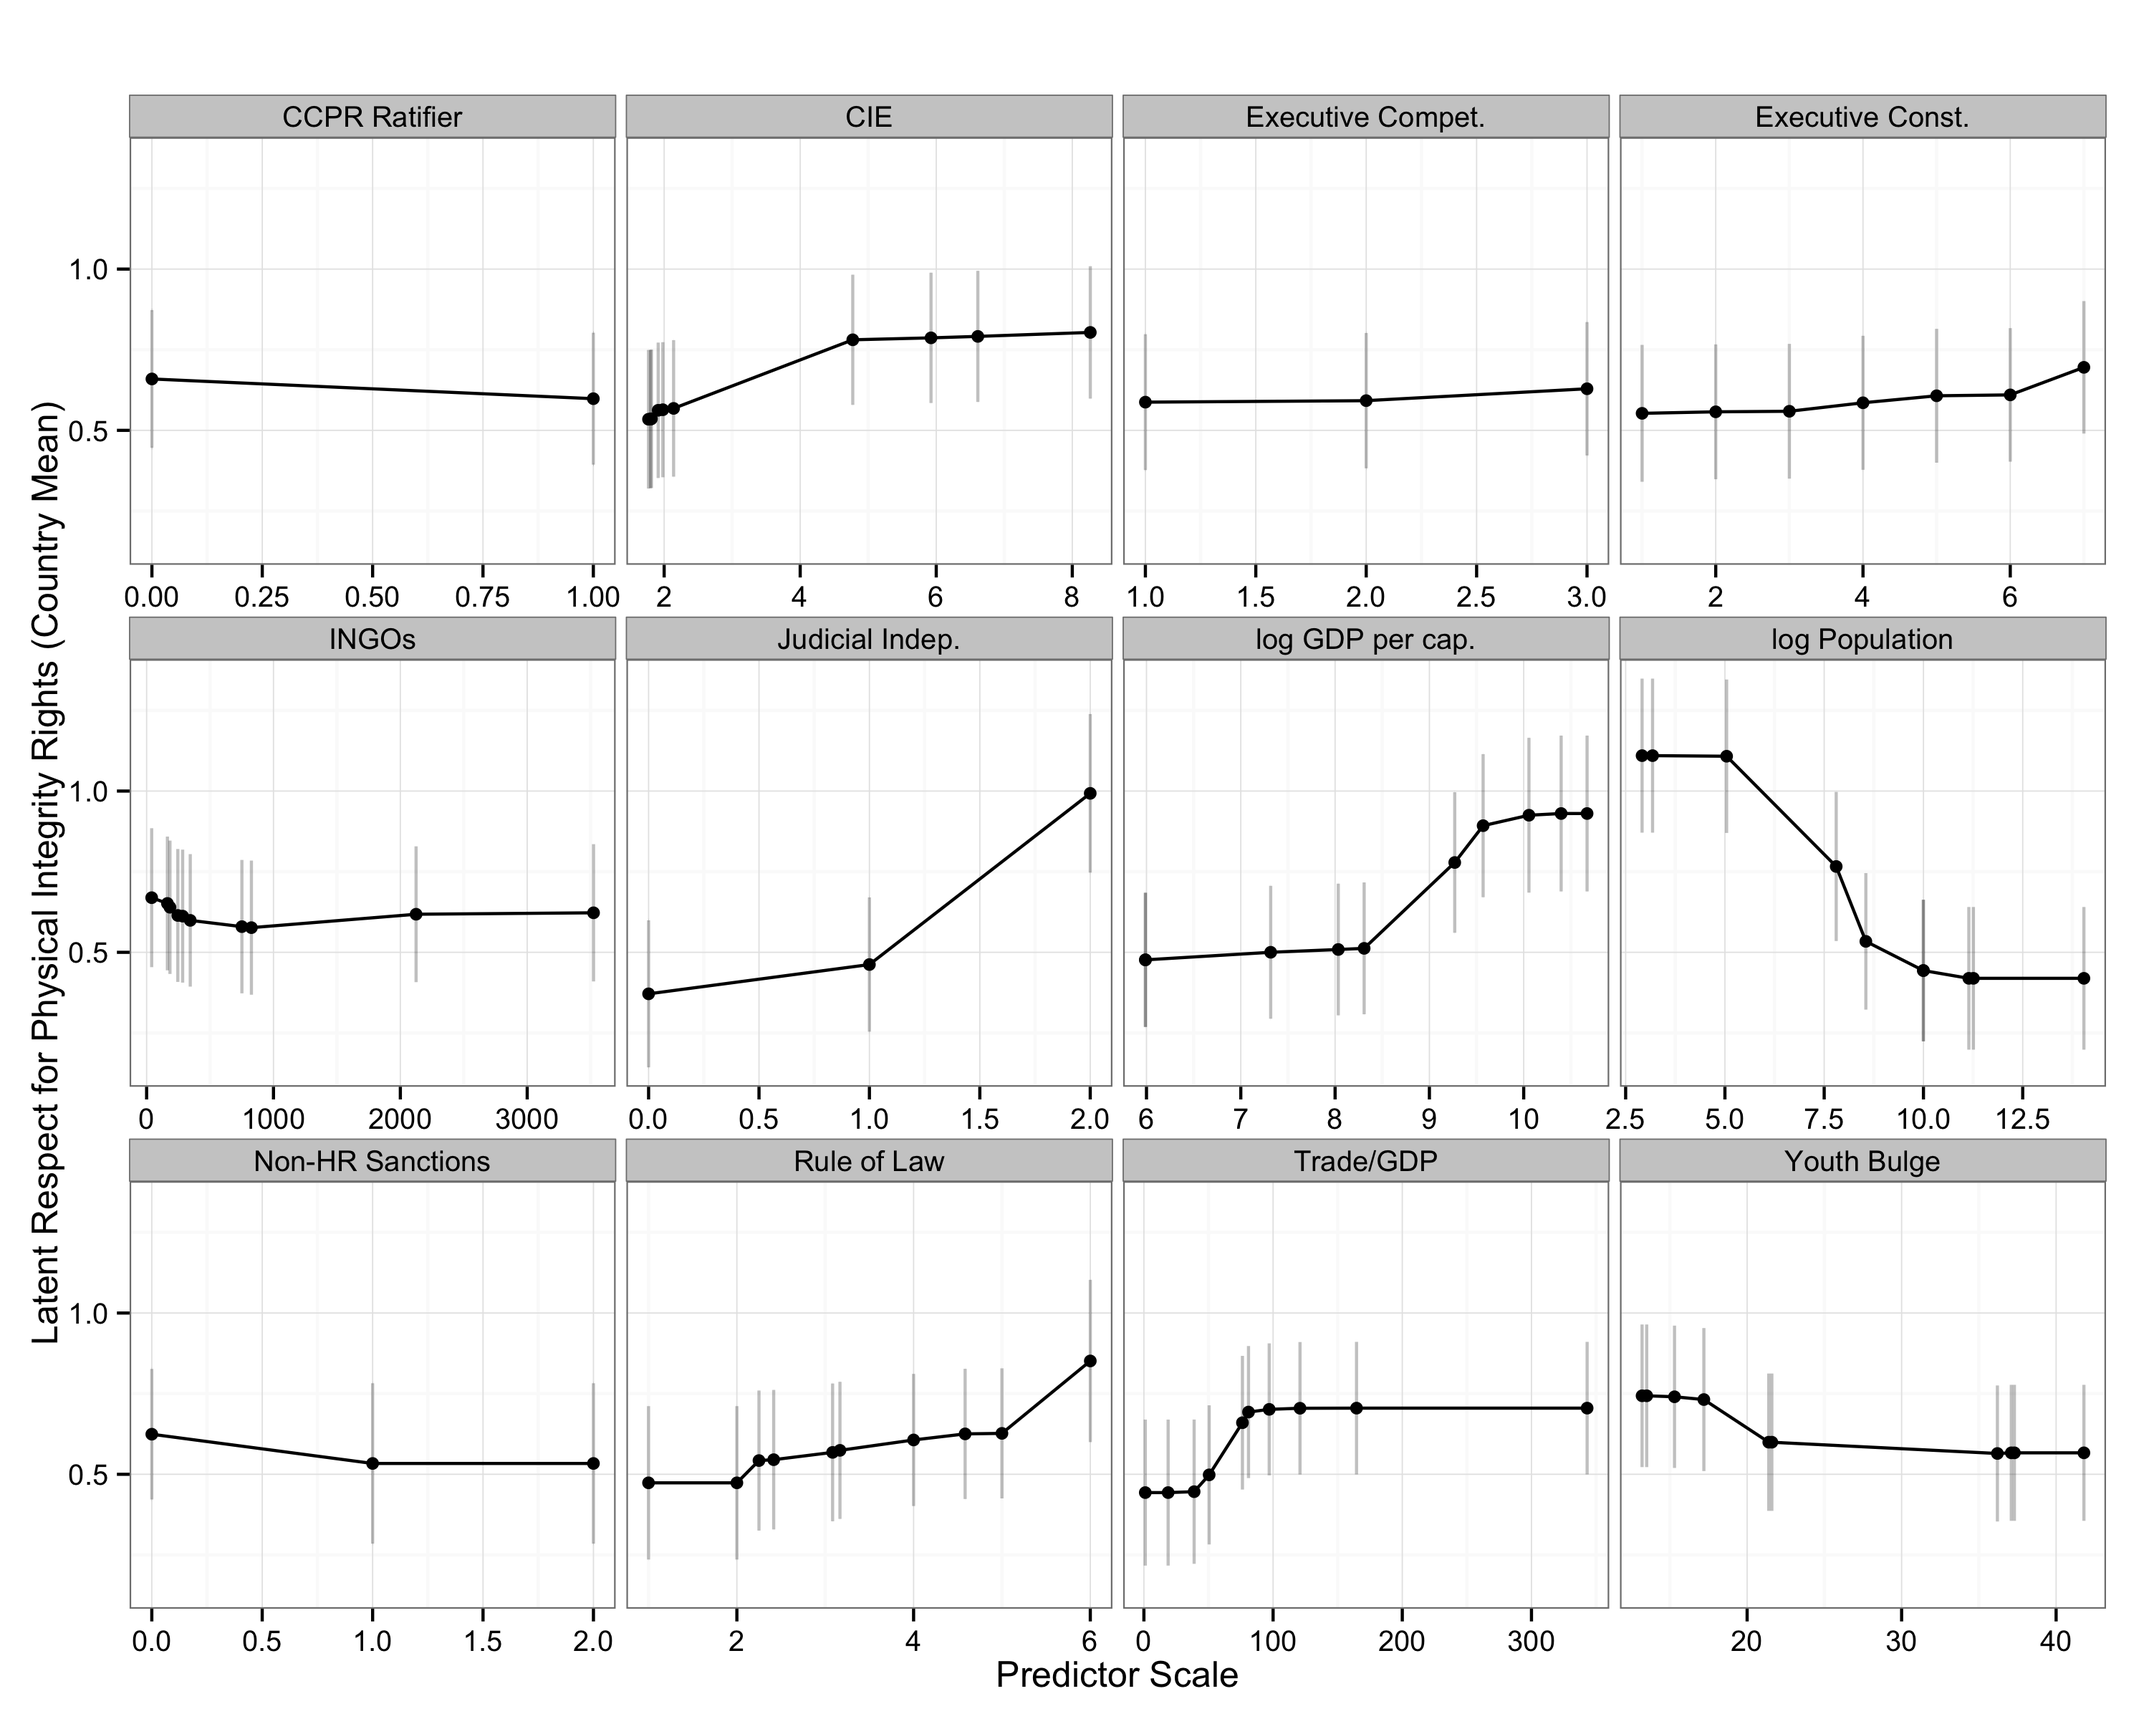
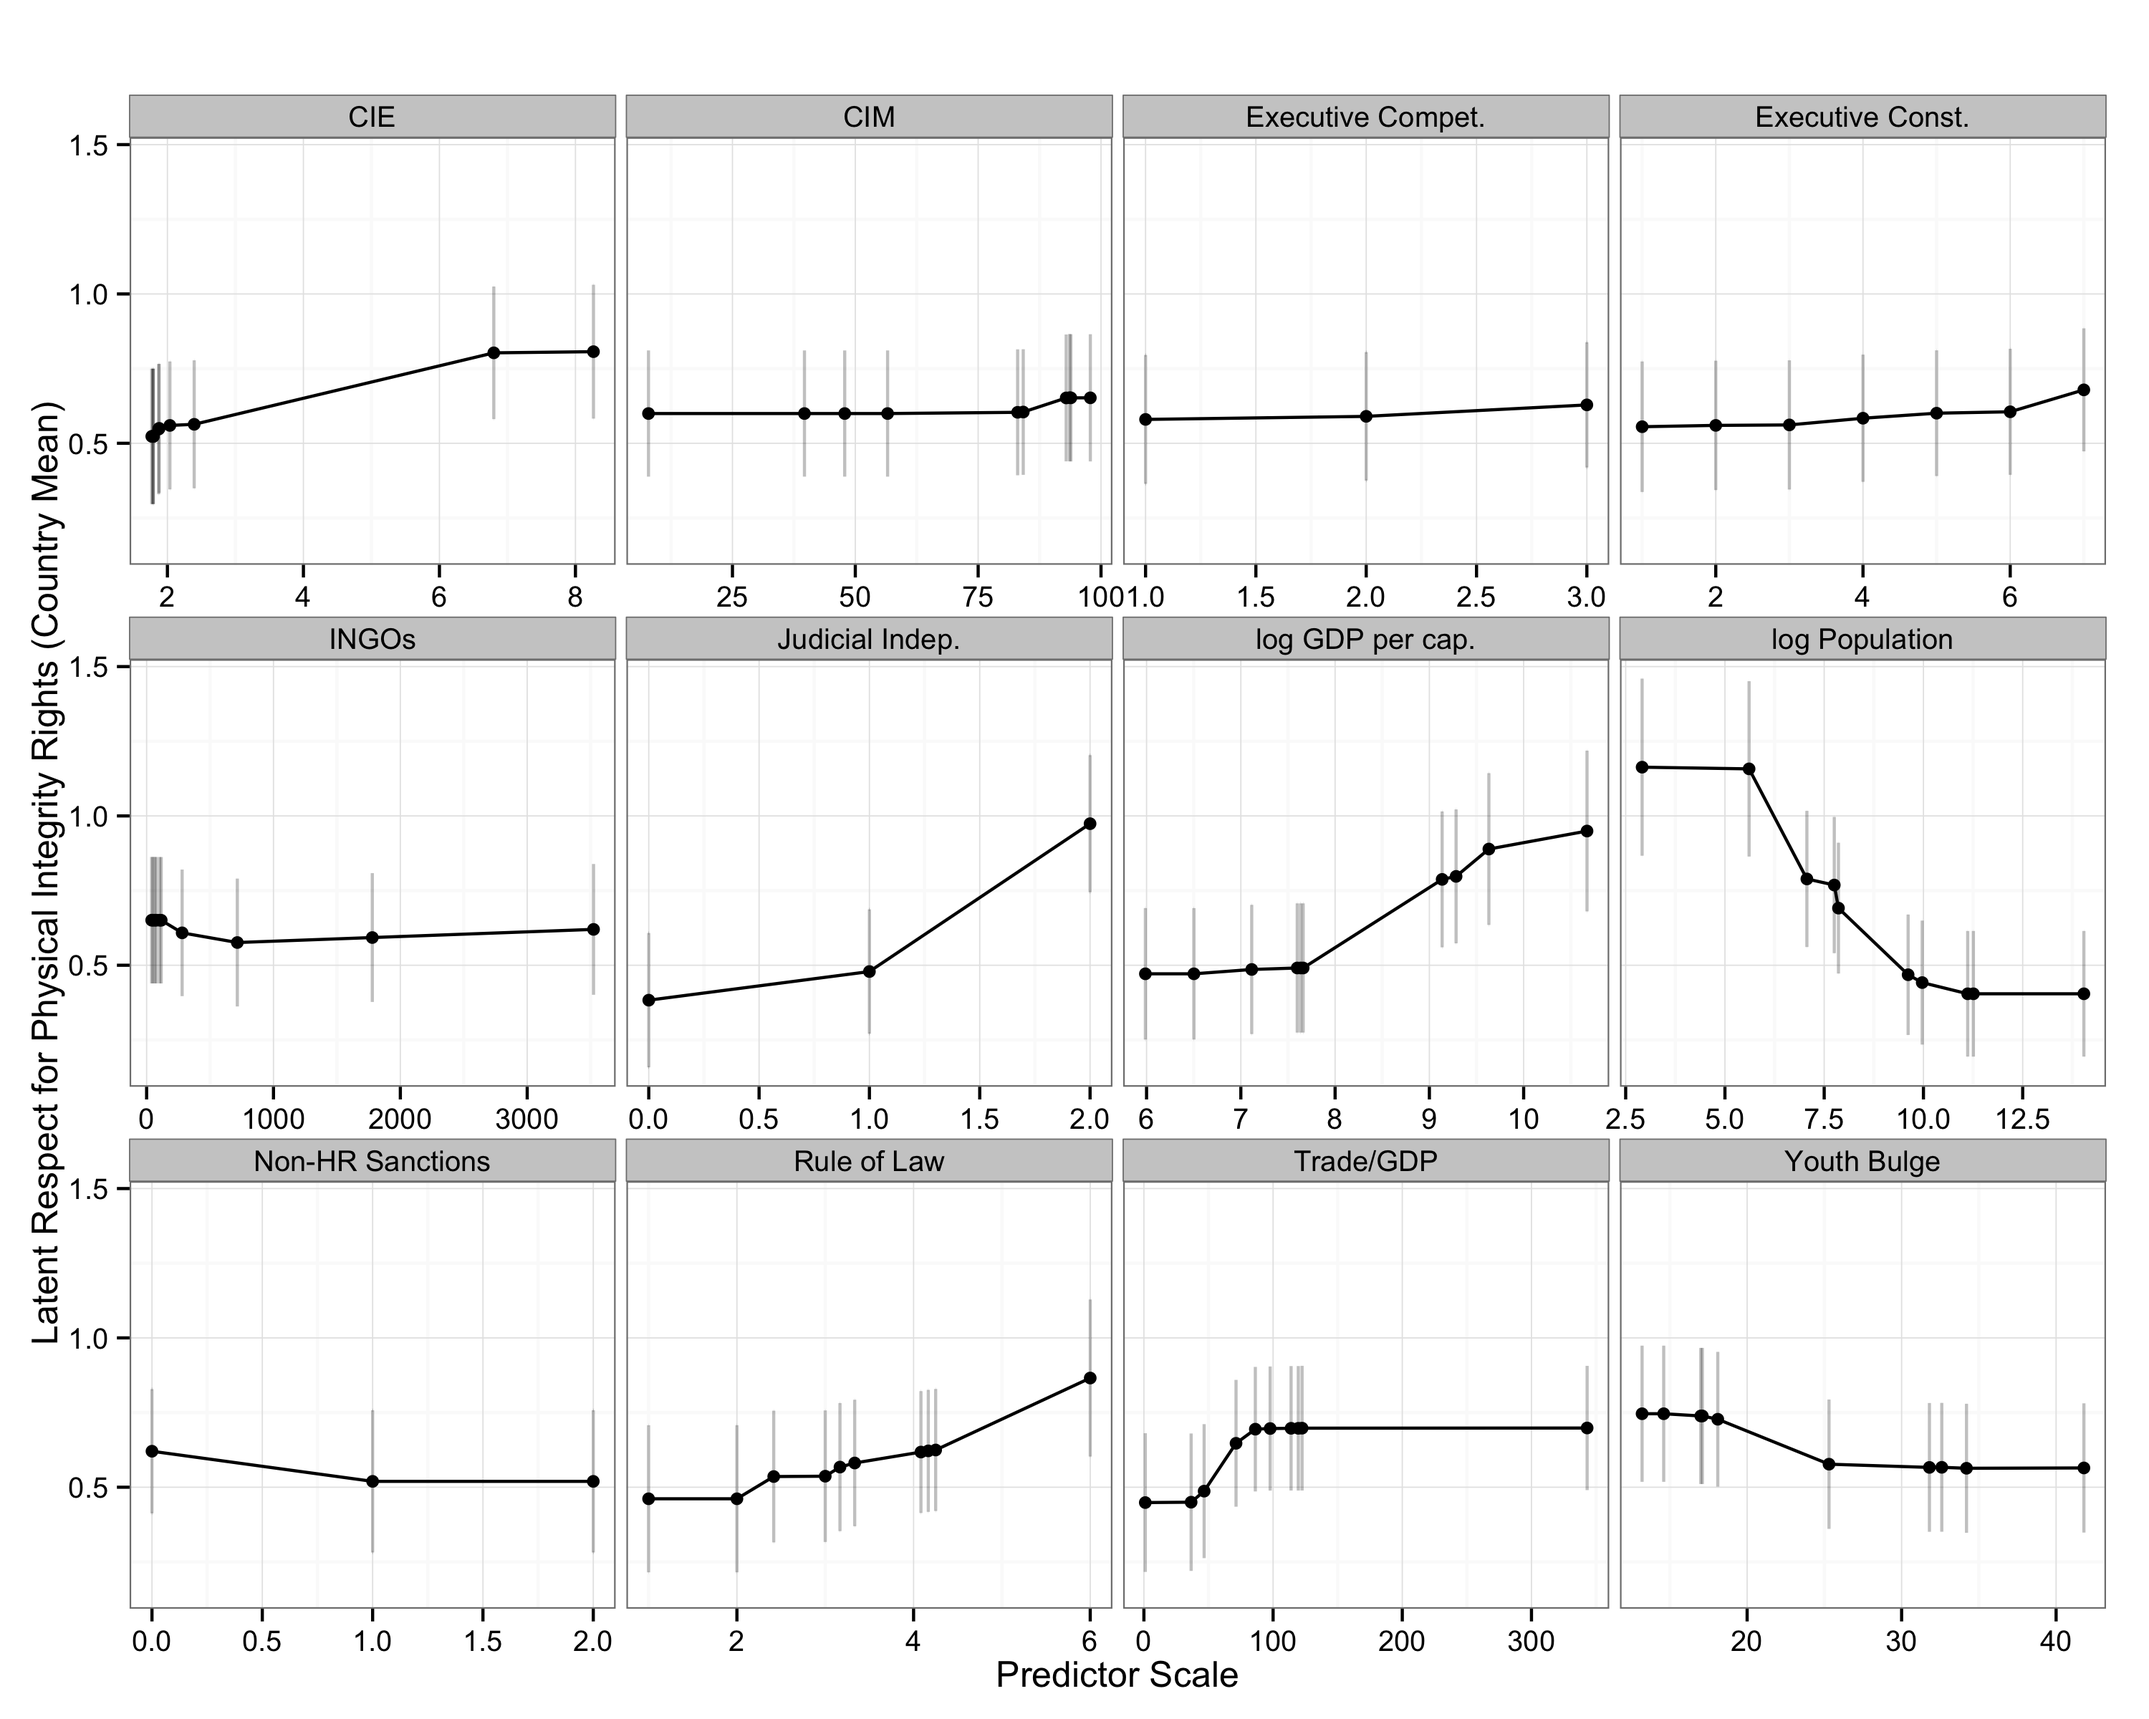
work on slides

diff --git a/rfss_slides.md b/rfss_slides.md
@@ -1,14 +1,10 @@
-% Exploratory Data Analysis using Random Forests[^conf]
-% Zachary Jones and Fridolin Linder[^contact]
-
-[^conf]: Prepared for the 73rd annual MPSA conference, April 16-19, 2015.
-[^contact]: Zachary M. Jones is a Ph.D. student in political science at Pennsylvania State University ([zmj@zmjones.com](mailto:zmj@zmjones.com)). Fridolin Linder is a Ph.D. student in political science at Pennsylvania State University ([fridolin.linder@gmail.com](mailto:fridolin.linder@gmail.com)); his work is supported by Pennsylvania State University and the National Science Foundation under an IGERT award \#DGE-1144860, "Big Data Social Science".
-
+% Exploratory Data Analysis using Random Forests
+% Zachary Jones and Fridolin Linder
 
 # Motivation
  - Big Data and other sources of new data revive exploratory data analysis (EDA)
- - Machine learning (ML) is seen as ``black box''
- - But: Can be very helpful for EDA
+ - Machine learning (ML) is seen as "black box"
+ - However, can be very helpful for EDA
  - Flexible, scalable
  - We present Random Forests (RF) as a method for EDA
  - Provide software for EDA with RF: \texttt{edarf}
@@ -23,9 +19,9 @@
 
 $$\mathbf{y} = f(\mathbf{X})$$
 
- - Non-parametric: No assumptions about the distribution of the outcome variable
+ - Non-parametric: No assumptions about the distribution of the outcome variable (only that the true function can be approximated well by composition of piecewise constant functions)
  - Works for continuous and discrete (ordered/unordered) outcomes
- - CART "learns" a piecewise approximation to $f(\cdot)$ by finding homogeneous subsets of the data conditional on the predictors
+ - CART "learns" a piecewise constant approximation to $f(\cdot)$ by finding homogeneous subsets of the data conditional on the predictors
  - Homogeneous subsets are produced by recursively splitting the data into binary partitions, conditional on their values on the predictors
  
 # CART (Demonstration)
@@ -38,29 +34,30 @@ $$\mathbf{y} = f(\mathbf{X})$$
  - problems with correlated and weak predictors
  - ensembles of decision trees are used to mitigate these problems
 
-  1. bagging (resample data, fit a tree to each replicate, average over trees)
+  1. bagging (resample data, fit a tree to each replicate, summarise over trees)
   2. random selection of predictors at each split
 
 Bagging combined with random selection of predictors gives random forests
 
 # Random Forest Function Approximation
 
-![25 randomly selected trees (shown in blue) in a random forest (prediction shown in red) each grown with a .632 subsample of the training data.](figures/forest_approximation.png)
+![25 randomly selected trees (shown in blue) in a random forest (prediction shown in red) each grown with a .632 subsample of the training data.](figures/forest_approximation_slides.png)
 
 # Methods for EDA
+
  - Variable importance: Permutation Importance, Tree Depth
  - Interpreting relationships: Partial Dependence
- - Detecting Interactions: k-way Partial Dependence, Depth in Subtrees
- - Clustering: Proximity Matrices
+ - Detecting Interactions: $k$-way Partial Dependence, Depth in Subtrees
+ - Clustering: Proximity Matrices (decomposed)
 
 # Example Data
 
+We are looking for better examples!
+
  - State Repression
-   + State repression (1999) country level data from Fariss (2014)
-   + Predictors are a subset of Hill and Jones (2014)
+   + State repression (static, only 1999) country-year data from Fariss (2014) and Hill and Jones (2014)
  - Ex-fellons turnout
-   + Field experiment on 6000 Connecticut 
- - Work in progress: examples not very well suited
+   + Field experiment on ~6000 ex-felons in Connecticut
 
 # Permutation Importance
 
@@ -68,24 +65,47 @@ Bagging combined with random selection of predictors gives random forests
 
 # Partial Dependence
 
-![Permutation importance (top ten shown) for predictors of state repression. The dot shows the mean increase (across trees) in mean squared error.](figures/latent_imp.png)
+![Partial dependence of top 6 predictors of state repression.](figures/latent_pd_slides.png)
 
 # Interactions
 
-\input{figures/latex_subfloats/interaction.tex}
+![Partial dependence of time since release (in year) across treatment levels on the probability of voting in the 2012 election for ex-felons that registered to do so.](figures/pd_int_cond_vote.png)
 
-# Clustering
+# Clustering (1)
 
-\input{figures/latex_subfloats/proximity.tex}
+![](figures/prox_cond_vote_top.png)
 
+# Clustering (2)
+
+![](figures/prox_cond_vote_bottom.png)
+
+# Future Development
+
+ - functional ANOVA decomposition of learned $f(\mathbf{X})$ (Hooker 2004, 2007)
+    + decrease influence of extrapolation of low dimensional representation of learned $f(\mathbf{X})$
+ - interaction detection
+    + maximal subtree visualization and computation (Ishwaran et. al. 2011)
+    + joint/marginal permutation importance visualization and computation
+    + additivity testing (Mentch and Hooker 2014)
+ - variance estimation
+    + using incomplete U-statistics (Mentch and Hooker 2014)
+
+# Future Research (Dependent Data)
+
+ - Nonparametric bootstraps for dependent data (e.g. Lahiri 2003)
+    + application specific but would be nice to have accessible implementations
+ - GLME estimation random effects and tree-based estimation of $f(\cdot)$ (e.g., Hajjem 2014)
 
 # Conclusion
 
- - positives
-    + powerful at prediction tasks
-    + intuitive means of substantive interpretation
-    + scalable (up and down)
+ - good general purpose supervised learner (in terms of generalization error)
+    + empirically (e.g., Fernandez-Delgado et al. 2014)
+    + theoretically (e.g., Wager and Walther 2015)
+ - *many* methods for interpretation (compared to many other supervised learners) and `edarf` makes this *much* easier to do
+ - relatively easy to explain (in the simplest form)
 
- - negatives
-    + no use of dependency structure
-	+ statistical theory still being developed
+# Contact and Links
+
+ - Zach ([zmj@zmjones.com](mailto:zmj@zmjones.com))
+ - Frido ([fridolin.linder@psu.edu](mailto:fridolin.linder@psu.edu))
+ - `edarf` [github.com/zmjones/edarf](http://github.com/zmjones/edarf)
